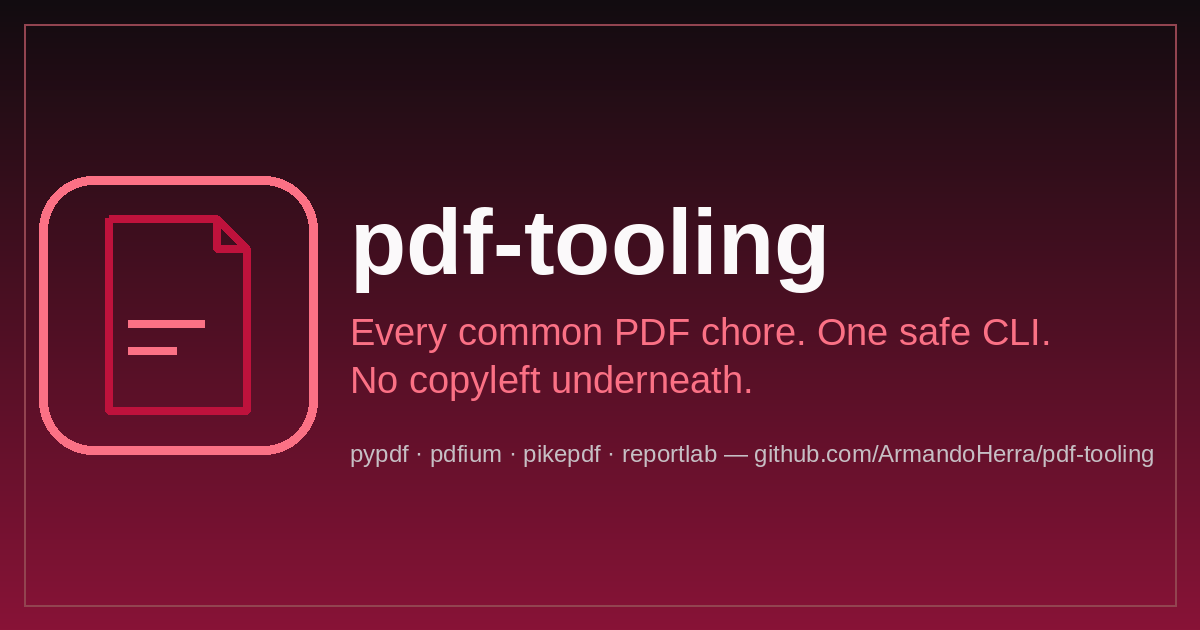
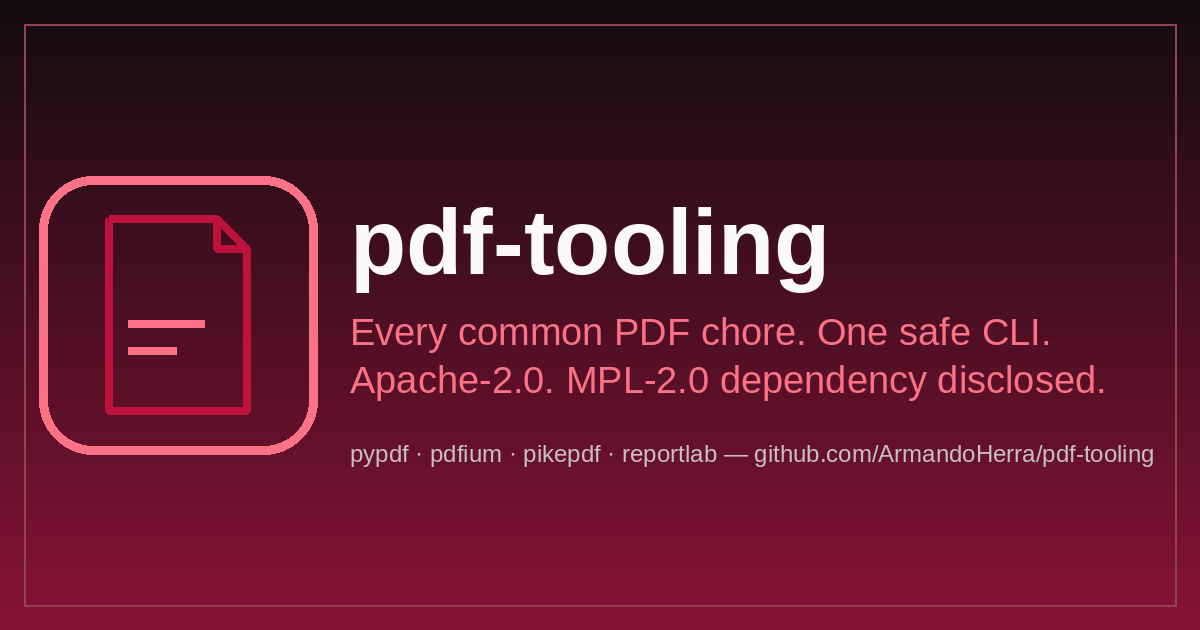
[PDF-171] docs: make the website tagline and social card state the licence truthfully
The site's Hero, its meta/OG descriptions, the social card and the
website package description said "No copyleft underneath" (and "Sin
copyleft" in Spanish), but the toolkit depends on an MPL-2.0 package
(B-503). Operator ruling OR-92 "Fix the line": state the licence truly
before the launch posts (B-449).

- One tagline per locale, in Hero, Layout (meta + OG, EN and ES), the
  OG-card generator and website/package.json, naming the MPL-2.0
  dependency instead of denying copyleft.
- og-image.png re-rendered from the generator: sha256
  be089c199406d787d2d90b846fcbfcfe4a90214bd96aa420b01f964ac43e2d8f
  (42,178 B, 1200x630, Liberation Sans); the generator reproduces it.
- New tests pin one string per locale, the retired claim absent from
  every website surface and the built pages, the card's drawn text,
  and the card artifact.

Retired claim: 8 -> 0 in source, 12 -> 0 in the built pages; sweep-1
79/79; make ci rc 0 (8453 passed); review WARN (AC11, the deployed
site check, is the operator's after deploy).

Claude-Session: https://claude.ai/code/session_012vbtYeQvX488CfPxmNXTgB

Changed region(s): [[0.2775, 0.573, 0.925, 0.6333]]

diff --git a/tests/test_pdf171_site_tagline.py b/tests/test_pdf171_site_tagline.py
@@ -1,0 +1,237 @@
+"""PDF-171 -- the website tagline and the Open Graph card state a true licence line.
+
+The retired slogan said there was no copyleft underneath while the same site
+discloses that `pikepdf` is MPL-2.0, copyleft file by file. The replacement is
+derived from repo facts: the product licence and the one MPL-2.0 package in the
+generated inventory. Source tier only: no Node, no `dist/`, no skip path.
+"""
+
+from __future__ import annotations
+
+import hashlib
+import importlib.util
+import json
+import re
+import tomllib
+from pathlib import Path
+from typing import Any, Final
+
+import pytest
+from PIL import Image, ImageDraw
+
+REPO_ROOT: Final[Path] = Path(__file__).resolve().parent.parent
+SITE: Final[Path] = REPO_ROOT / "website"
+
+# D1: one string per locale, reused verbatim on every surface.
+TAGLINE_EN: Final[str] = (
+    "Every common PDF chore. One safe CLI. Apache-2.0. MPL-2.0 dependency disclosed."
+)
+TAGLINE_ES: Final[str] = (
+    "Todas las tareas comunes de PDF. Una sola CLI segura. Apache-2.0. "
+    "Dependencia MPL-2.0 declarada."
+)
+TITLE_PREFIX: Final[str] = "pdf-tooling: "
+PACKAGE_DESCRIPTION_TAIL: Final[str] = "one safe CLI, Apache-2.0, MPL-2.0 dependency disclosed"
+
+# Re-pin only together with a re-review of the card-text arm.
[1 lines of base64/hex data omitted]
+
+RETIRED: Final[re.Pattern[str]] = re.compile(r"(?i)\b(no|sin)\s+copyleft\b")
+CLAIM: Final[re.Pattern[str]] = re.compile(
+    r"(?i)\b(stars?|downloads?|users?|usuarios|estrellas|descargas|fastest|faster|best|mejor"
+    r"|leading|l[ií]der|#1|\d+\s*(%|x\b|k\b|\+))"
+)
+NOTICE_PIKEPDF: Final[re.Pattern[str]] = re.compile(r"(?m)^\s*pikepdf\s+MPL-2\.0\b")
+
+HERO: Final[Path] = SITE / "src" / "components" / "Hero.astro"
+LAYOUT: Final[Path] = SITE / "src" / "layouts" / "Layout.astro"
+LICENSE_SUMMARY: Final[Path] = SITE / "src" / "components" / "LicenseSummary.astro"
+PACKAGE_JSON: Final[Path] = SITE / "package.json"
+OG_PNG: Final[Path] = SITE / "public" / "og-image.png"
+OG_GENERATOR: Final[Path] = SITE / "scripts" / "generate-og-image.py"
+INVENTORY: Final[Path] = SITE / "src" / "data" / "licenses.json"
+
+BASE_TAGLINE_EN: Final[str] = "Every common PDF chore. One safe CLI. No copyleft underneath."
+BASE_TAGLINE_ES: Final[str] = (
+    "Todas las tareas comunes de PDF. Una sola CLI segura. Sin copyleft debajo."
+)
+BASE_DESCRIPTION: Final[str] = (
+    "Project website for pdf-tooling — every common PDF chore, one safe CLI, no copyleft underneath"
+)
+
+
+def _table_values(source: Path, key: str) -> list[str]:
+    pattern = re.compile(rf"^\s*{re.escape(key)}:\s*'([^']*)',?\s*$")
+    found: list[str] = []
+    for line in source.read_text(encoding="utf-8").splitlines():
+        match = pattern.match(line)
+        if match:
+            found.append(match.group(1))
+    assert len(found) == 2, f"{source.name} `{key}` must have exactly two values, got {found}"
+    return found
+
+
+def _package_description() -> str:
+    data = json.loads(PACKAGE_JSON.read_text(encoding="utf-8"))
+    return str(data["description"])
+
+
+def _load_generator() -> Any:
+    spec = importlib.util.spec_from_file_location("_pdf171_og_generator", OG_GENERATOR)
+    assert spec is not None and spec.loader is not None
+    module = importlib.util.module_from_spec(spec)
+    spec.loader.exec_module(module)
+    return module
+
+
+def _record_card(tmp_path: Path, monkeypatch: pytest.MonkeyPatch) -> list[str]:
+    generator = _load_generator()
+    recorded: list[str] = []
+    original = ImageDraw.ImageDraw.text
+
+    def wrapped(self: ImageDraw.ImageDraw, xy: Any, text: Any, *a: Any, **k: Any) -> Any:
+        recorded.append(text)
+        return original(self, xy, text, *a, **k)
+
+    monkeypatch.setattr(ImageDraw.ImageDraw, "text", wrapped)
+    generator.render(tmp_path / "og.png")
+    return recorded
+
+
+def _retired_hits(files: list[Path]) -> list[str]:
+    hits: list[str] = []
+    for item in files:
+        if RETIRED.search(item.read_text(encoding="utf-8")):
+            hits.append(str(item.relative_to(REPO_ROOT)))
+    return hits
+
+
+def _licence_violations(
+    tagline: str, project_licence: str, inventory_rows: list[dict[str, str]]
+) -> list[str]:
+    problems: list[str] = []
+    if "Apache-2.0" not in tagline or project_licence != "Apache-2.0":
+        problems.append("the tagline does not state the project licence")
+    if "MPL-2.0" not in tagline:
+        problems.append("the tagline does not name MPL-2.0")
+    mpl_names = [r["Name"] for r in inventory_rows if r["License"] == "MPL-2.0"]
+    if mpl_names != ["pikepdf"]:
+        problems.append(f"MPL-2.0 rows are {mpl_names}, not ['pikepdf']")
+    return problems
+
+
+def _claim_violations(strings: list[str]) -> list[str]:
+    problems: list[str] = []
+    for item in strings:
+        stripped = item.replace("Apache-2.0", "").replace("MPL-2.0", "")
+        if re.search(r"\d", stripped) or CLAIM.search(stripped):
+            problems.append(item)
+    return problems
+
+
+def test_the_tagline_is_one_string_per_locale() -> None:
+    hero = _table_values(HERO, "tagline")
+    og_desc = _table_values(LAYOUT, "ogDescription")
+    titles = _table_values(LAYOUT, "title")
+    taglines = [TAGLINE_EN, TAGLINE_ES]
+    assert hero == taglines
+    assert og_desc == taglines
+    assert titles == [TITLE_PREFIX + TAGLINE_EN, TITLE_PREFIX + TAGLINE_ES]
+    assert _package_description().endswith(PACKAGE_DESCRIPTION_TAIL)
+
+
+def test_no_website_surface_carries_the_retired_claim() -> None:
+    files: list[Path] = []
+    files += sorted((SITE / "src").rglob("*.astro"))
+    files += sorted((SITE / "src").rglob("*.ts"))
+    files += sorted((SITE / "scripts").glob("*.py"))
+    files += [PACKAGE_JSON, SITE / "README.md", REPO_ROOT / "README.md"]
+    files += [REPO_ROOT / "docs" / "social" / "generate-social-preview.py"]
+    assert _retired_hits(files) == []
+
+
+def test_the_retired_claim_arm_can_fail() -> None:
+    assert RETIRED.search(BASE_TAGLINE_EN)
+    assert RETIRED.search(BASE_TAGLINE_ES)
+    assert RETIRED.search(BASE_DESCRIPTION)
+    generator = _load_generator()
+    card_tail = getattr(generator, "CARD_TAGLINE_LINES", ("",))[-1]
+    for fresh in (TAGLINE_EN, TAGLINE_ES, card_tail):
+        assert not RETIRED.search(fresh)
+
+
+def test_the_licence_ids_in_the_tagline_are_the_repos_own() -> None:
+    pyproject = tomllib.loads((REPO_ROOT / "pyproject.toml").read_text(encoding="utf-8"))
+    project_licence = pyproject["project"]["license"]
+    rows = json.loads(INVENTORY.read_text(encoding="utf-8"))
+    licence_file = (REPO_ROOT / "LICENSE").read_text(encoding="utf-8")
+    assert "Apache License" in licence_file
+    assert "Version 2.0" in licence_file
+    for tagline in (TAGLINE_EN, TAGLINE_ES):
+        assert _licence_violations(tagline, project_licence, rows) == []
+    notice = (REPO_ROOT / "NOTICE").read_text(encoding="utf-8")
+    assert NOTICE_PIKEPDF.search(notice)
+    assert "{pikepdf.License}" in LICENSE_SUMMARY.read_text(encoding="utf-8")
+
+
+def test_the_licence_arm_can_fail() -> None:
+    rows = [{"License": "MPL-2.0", "Name": "pikepdf"}]
+    bad_tagline = "Every common PDF chore. One safe CLI. MIT. MPL-2.0 dependency disclosed."
+    assert _licence_violations(bad_tagline, "Apache-2.0", rows)
+    two = [*rows, {"License": "MPL-2.0", "Name": "zz-planted"}]
+    assert _licence_violations(TAGLINE_EN, "Apache-2.0", two)
+    real = (REPO_ROOT / "NOTICE").read_text(encoding="utf-8")
+    assert NOTICE_PIKEPDF.search(real)
+    assert not NOTICE_PIKEPDF.search("  pikepdf               MIT")
+
+
+def test_the_og_card_draws_exactly_the_en_tagline(
+    tmp_path: Path, monkeypatch: pytest.MonkeyPatch
+) -> None:
+    generator = _load_generator()
+    name = getattr(generator, "CARD_NAME", None)
+    lines = getattr(generator, "CARD_TAGLINE_LINES", None)
+    footer = getattr(generator, "CARD_FOOTER", None)
+    assert name is not None and lines is not None and footer is not None, (
+        "the generator must expose CARD_NAME, CARD_TAGLINE_LINES and CARD_FOOTER"
+    )
+    drawn = _record_card(tmp_path, monkeypatch)
+    assert drawn == [name, *lines, footer]
+    joined = " ".join(lines)
+    hero_en = _table_values(HERO, "tagline")[0]
+    assert joined == TAGLINE_EN
+    assert joined == hero_en
+
+
+def test_no_tagline_surface_states_a_figure_or_claim(
+    tmp_path: Path, monkeypatch: pytest.MonkeyPatch
+) -> None:
+    surfaces = [
+        *_table_values(HERO, "tagline"),
+        *_table_values(LAYOUT, "title"),
+        *_table_values(LAYOUT, "ogDescription"),
+        _package_description(),
+    ]
+    generator = _load_generator()
+    assert hasattr(generator, "CARD_TAGLINE_LINES"), "the generator must name its drawn lines"
+    surfaces += _record_card(tmp_path, monkeypatch)
+    assert _claim_violations(surfaces) == []
+
+
+def test_the_claim_arm_can_fail() -> None:
+    assert _claim_violations(["★ 42 stars"])
+    assert _claim_violations(["10x faster"])
+    assert _claim_violations(["Más de 100 usuarios."])
+    assert _claim_violations([TAGLINE_EN, TAGLINE_ES]) == []
+
+
+def test_the_og_card_artifact_is_pinned() -> None:
+    with Image.open(OG_PNG) as image:
+        shape = (image.format, image.size, image.mode)
+    assert shape == ("PNG", (1200, 630), "RGB")
+    digest = hashlib.sha256(OG_PNG.read_bytes()).hexdigest()
+    assert digest == OG_CARD_SHA256, (
+        "website/public/og-image.png changed: re-render with "
+        "`uv run python website/scripts/generate-og-image.py` and re-pin OG_CARD_SHA256 "
+        "only together with a re-review of the card-text arm"
+    )

diff --git a/tests/test_website_i18n.py b/tests/test_website_i18n.py
@@ -427,3 +427,48 @@ def test_the_spanish_page_ships_no_javascript_either() -> None:
     for page in sorted((DIST_ROOT / ES_SEGMENT).rglob("*.html")):
         html = page.read_text()
         assert "<script" not in html, f"{page.relative_to(DIST_ROOT)} carries a <script> tag"
+
+
+# D1 wording, re-declared here so this module needs no cross-test import. The
+# source-tier definition lives in tests/test_pdf171_site_tagline.py.
+TRUE_TAGLINE_EN: Final[str] = (
+    "Every common PDF chore. One safe CLI. Apache-2.0. MPL-2.0 dependency disclosed."
+)
+TRUE_TAGLINE_ES: Final[str] = (
+    "Todas las tareas comunes de PDF. Una sola CLI segura. Apache-2.0. "
+    "Dependencia MPL-2.0 declarada."
+)
+RETIRED_CLAIM: Final[re.Pattern[str]] = re.compile(r"(?i)\b(no|sin)\s+copyleft\b")
+
+
+def _meta_content(html: str, attr: str, name: str) -> str:
+    tag = re.search(rf'<meta\s+[^>]*{attr}="{re.escape(name)}"[^>]*>', html)
+    assert tag is not None, f"no <meta {attr}={name!r}> found"
+    content = re.search(r'content="([^"]*)"', tag.group(0))
+    assert content is not None, f"<meta {name}> has no content"
+    return content.group(1)
+
+
+def test_every_built_page_states_the_true_licence_line() -> None:
+    """D1/D4 of PDF-171: the retired claim is gone from every built page and
+    the og/twitter descriptions (and home titles) carry the locale's tagline."""
+    _require_dist()
+    pages = {
+        "index.html": TRUE_TAGLINE_EN,
+        "licensing/index.html": TRUE_TAGLINE_EN,
+        "es/index.html": TRUE_TAGLINE_ES,
+        "es/licensing/index.html": TRUE_TAGLINE_ES,
+    }
+    problems: list[str] = []
+    for rel, tagline in pages.items():
+        html = (DIST_ROOT / rel).read_text(encoding="utf-8")
+        if RETIRED_CLAIM.search(html):
+            problems.append(f"{rel}: retired claim present")
+        for attr, name in (("property", "og:description"), ("name", "twitter:description")):
+            if _meta_content(html, attr, name) != tagline:
+                problems.append(f"{rel}: {name} is not the locale tagline")
+        if rel in ("index.html", "es/index.html"):
+            title = re.search(r"<title>([^<]*)</title>", html)
+            if title is None or title.group(1) != "pdf-tooling: " + tagline:
+                problems.append(f"{rel}: <title> is not the locale tagline")
+    assert problems == []

diff --git a/website/scripts/generate-og-image.py b/website/scripts/generate-og-image.py
@@ -2,7 +2,9 @@
 """Generate website/public/og-image.png (1200x630 Open Graph preview).
 
 Renders locally with Pillow -- no external network calls, no downloaded
-fonts/logos. Re-run any time the tagline changes:
+fonts/logos. Re-run any time the tagline changes. The card's tagline lines
+must join to the EN `tagline` in website/src/components/Hero.astro, which
+tests/test_pdf171_site_tagline.py asserts:
 
     uv run python website/scripts/generate-og-image.py
 
@@ -39,6 +41,14 @@ SUBTEXT = (251, 113, 133)  # primary-400  #fb7185 -- frozen byte-for-byte
 #: invisible until this item's operand-level census.
 RULE = (146, 68, 80)  # line-mark (primary-400 @ 55%) flattened over surface-900
 FOOTER = (198, 191, 196)  # surface-300  #c6bfc4
+
+# The strings the card draws, named so a test can read them without OCR.
+CARD_NAME = "pdf-tooling"
+CARD_TAGLINE_LINES = (
+    "Every common PDF chore. One safe CLI.",
+    "Apache-2.0. MPL-2.0 dependency disclosed.",
+)
+CARD_FOOTER = "pypdf · pdfium · pikepdf · reportlab — github.com/ArmandoHerra/pdf-tooling"
 
 FONT_CANDIDATES_BOLD = [
     "/usr/share/fonts/truetype/liberation/LiberationSans-Bold.ttf",
@@ -122,17 +132,10 @@ def render(out_path: pathlib.Path) -> pathlib.Path:
     footer_font = _load_font(FONT_CANDIDATES_REGULAR, 24)
 
     text_x = 350
-    draw.text((text_x, 190), "pdf-tooling", font=title_font, fill=TEXT)
-    draw.text(
-        (text_x, 310), "Every common PDF chore. One safe CLI.", font=tagline_font, fill=SUBTEXT
-    )
-    draw.text((text_x, 358), "No copyleft underneath.", font=tagline_font, fill=SUBTEXT)
-    draw.text(
-        (text_x, 440),
-        "pypdf · pdfium · pikepdf · reportlab — github.com/ArmandoHerra/pdf-tooling",
-        font=footer_font,
-        fill=FOOTER,
-    )
+    draw.text((text_x, 190), CARD_NAME, font=title_font, fill=TEXT)
+    draw.text((text_x, 310), CARD_TAGLINE_LINES[0], font=tagline_font, fill=SUBTEXT)
+    draw.text((text_x, 358), CARD_TAGLINE_LINES[1], font=tagline_font, fill=SUBTEXT)
+    draw.text((text_x, 440), CARD_FOOTER, font=footer_font, fill=FOOTER)
 
     out_path.parent.mkdir(parents=True, exist_ok=True)
     img.save(out_path, "PNG")

diff --git a/tests/test_website_diagrams.py b/tests/test_website_diagrams.py
@@ -989,9 +989,9 @@ def test_ac22_the_changelog_carries_a_pdf96_entry_directly_below_the_anchor() ->
     anchor_line_end = text.index("\n", anchor_idx) + 1
     remainder = text[anchor_line_end:].lstrip("\n")
     first_line = remainder.splitlines()[0]
-    assert first_line.startswith("## [PDF-161] "), (
-        "the PDF-161 entry must be the first heading directly below the anchor line"
+    assert first_line.startswith("## [PDF-171] "), (
+        "the PDF-171 entry must be the first heading directly below the anchor line"
     )
-    assert re.match(r"^## \[PDF-161\] .+ — \d{4}-\d{2}-\d{2}$", first_line), (
+    assert re.match(r"^## \[PDF-171\] .+ — \d{4}-\d{2}-\d{2}$", first_line), (
         f"changelog heading does not match the required format: {first_line!r}"
     )

diff --git a/changelog.md b/changelog.md
@@ -20,6 +20,12 @@ grep at `HEAD` — a grep at `HEAD` is exactly what hides a lost prepend.
 
 <!-- CHANGELOG-ANCHOR: insert new entries directly below this line, newest first -->
 
+## [PDF-171] Reword the website tagline and OG card to a true licence statement — 2026-10-31
+
+- The website said "No copyleft underneath." (ES "Sin copyleft debajo.") in the hero, the page title, `og:description`, `twitter:description` and the Open Graph card, while its own licence section discloses that `pikepdf` is MPL-2.0, copyleft file by file. The operator ruled to fix the line.
+- The line now reads "Every common PDF chore. One safe CLI. Apache-2.0. MPL-2.0 dependency disclosed." (ES "Todas las tareas comunes de PDF. Una sola CLI segura. Apache-2.0. Dependencia MPL-2.0 declarada."), derived from `LICENSE`, `pyproject.toml` and the one MPL-2.0 row in `website/src/data/licenses.json`. `website/package.json`'s `description` follows.
+- `website/public/og-image.png` is re-rendered by its generator from named constants for the drawn strings; a test reads them without OCR, and the PNG's sha256 is pinned. The GitHub social preview never carried the claim and is unchanged.
+
 ## [PDF-161] Make create warn and draw ? for control and undrawable characters — 2026-10-31
 
 - **`create`** now draws `?` for every control character other than a newline, carriage return, tab or form feed (ESC, BEL, VT, NUL, DEL and the rest of U+0000–U+001F), where it drew a ZapfDingbats square (■) at exit `0` with `warnings: []` (`28a5ce263a`, `B-537`, ruling `OR-88`).
